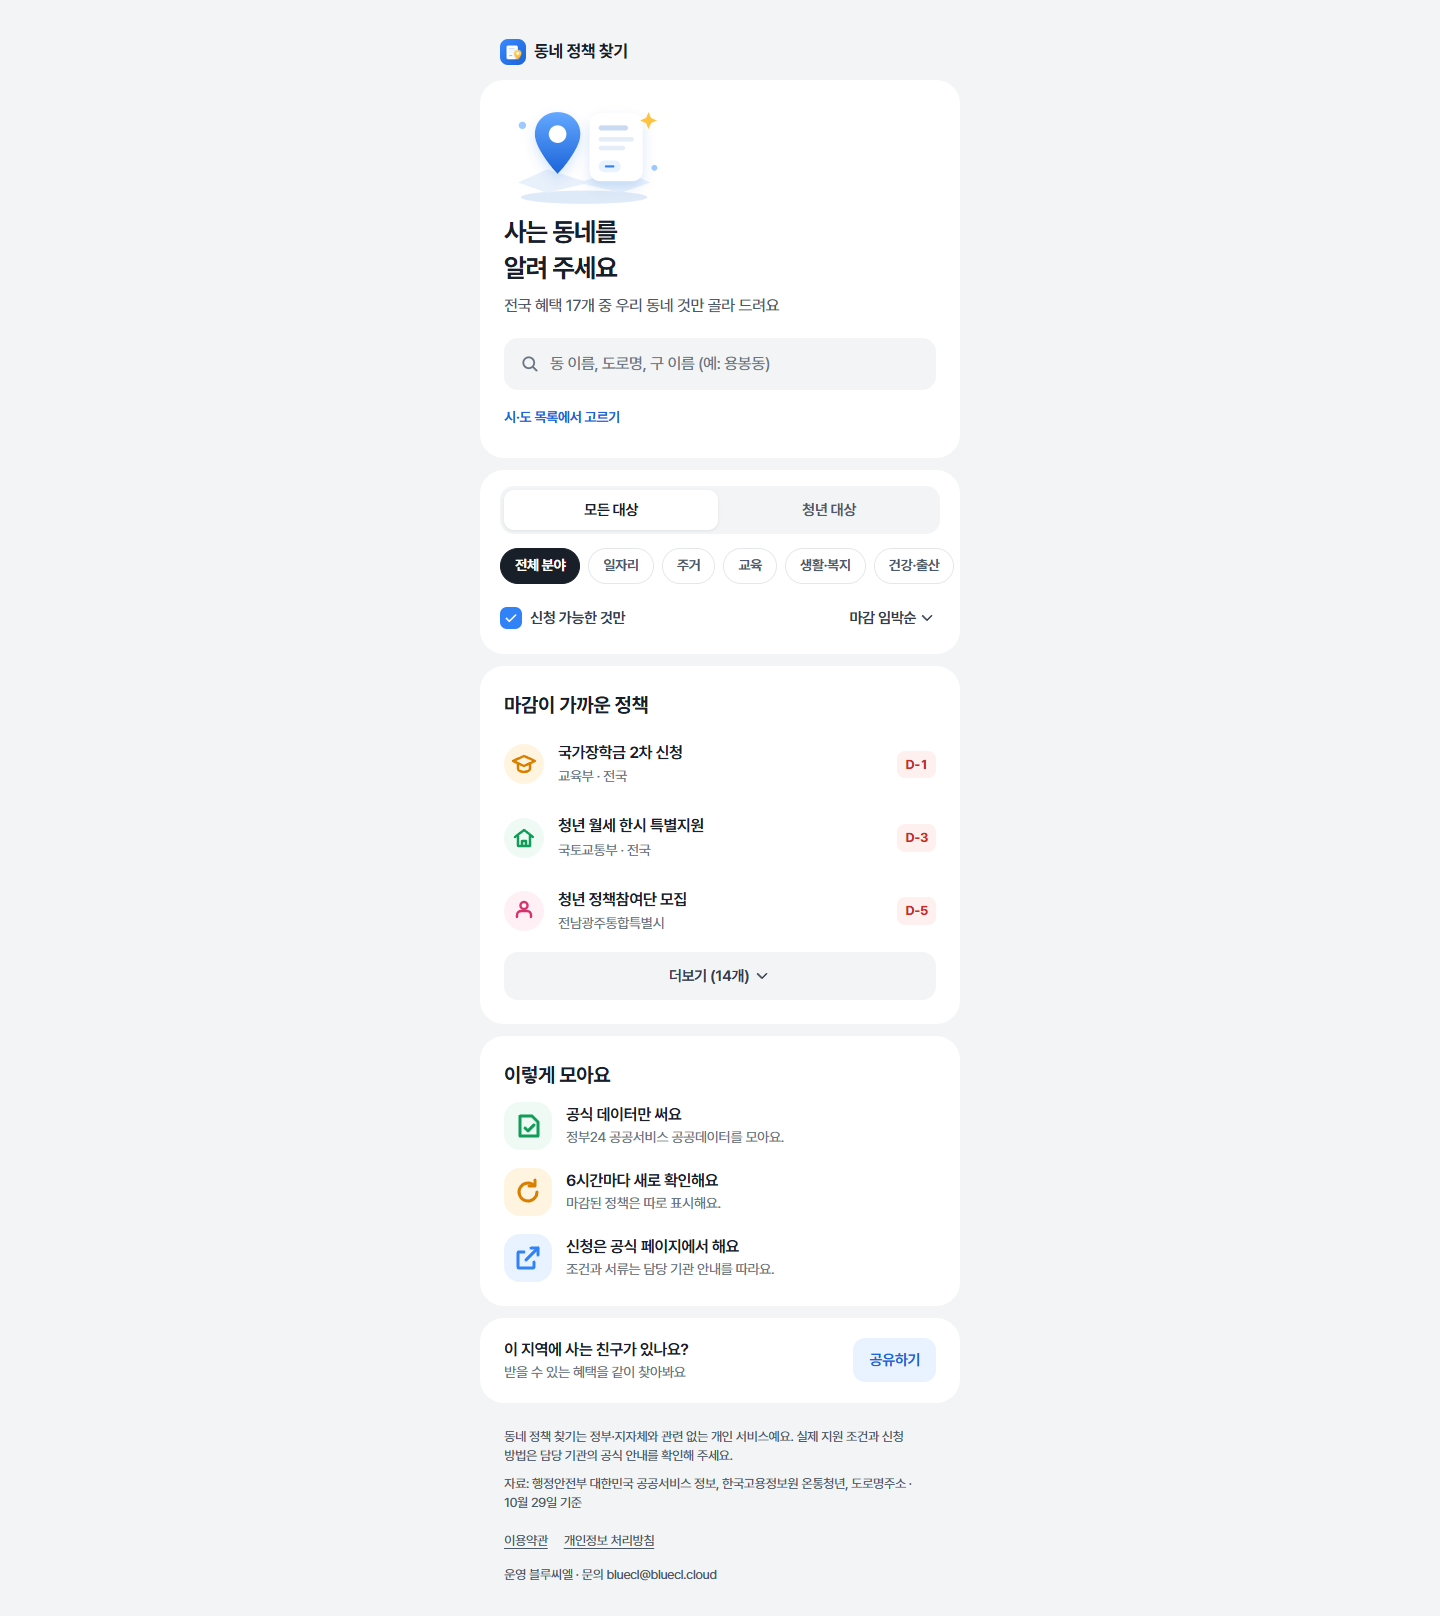
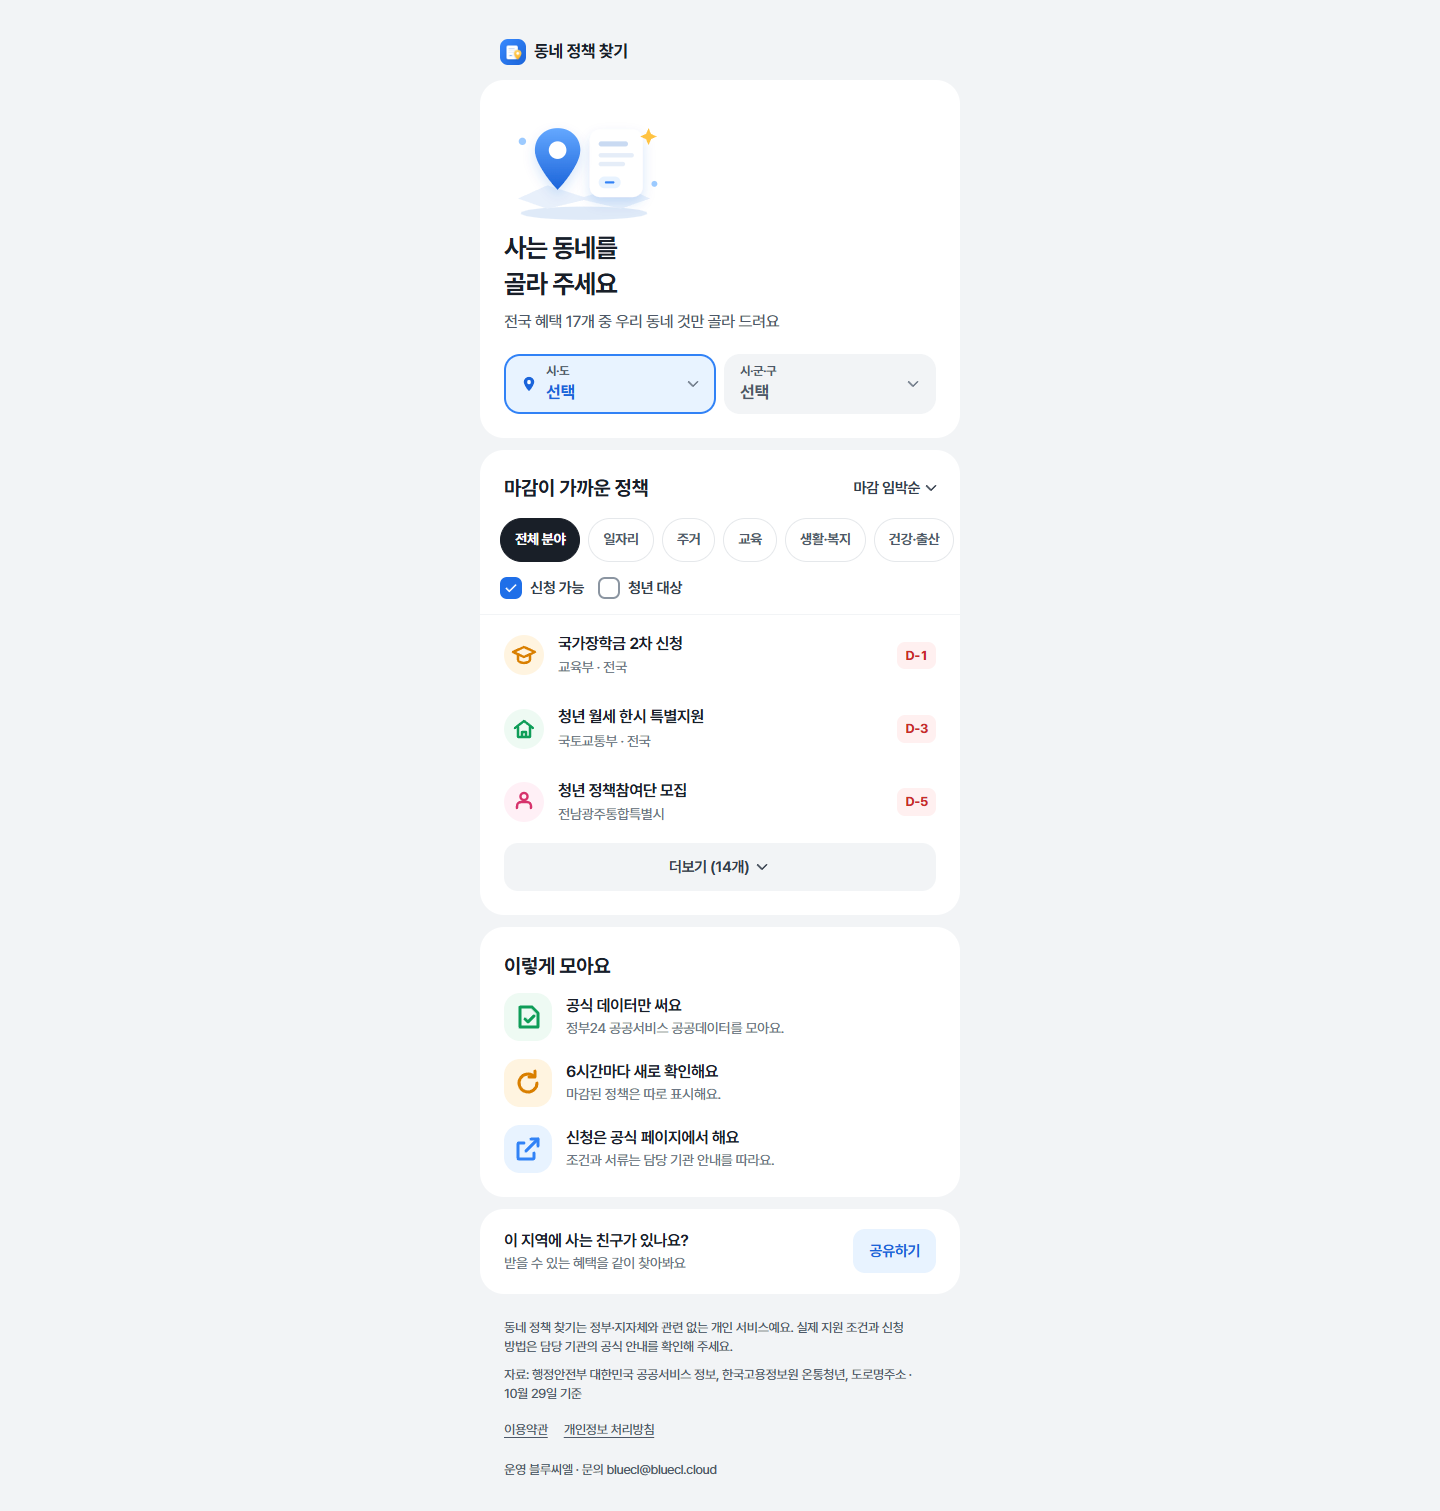
[Docs] 배치 점검 기준과 바뀐 화면 스크린샷 갱신

diff --git a/README.md b/README.md
@@ -1,10 +1,10 @@
 # policy · 동네 정책 찾기
 
-고른 지역(시·도 → 시·군·구)에서 지금 신청할 수 있는 정부·지자체 혜택을 모아 보여 주는 앱인토스 미니앱이에요. 마감 임박순·최근 등록순·조회 많은순·이름순으로 정렬하고, 대상(모든 대상/청년 대상)·분야·신청 가능 여부·우리 지역만으로 거를 수 있어요.
+고른 지역(시·도 → 시·군·구)에서 지금 신청할 수 있는 정부·지자체 혜택을 모아 보여 주는 앱인토스 미니앱이에요. 마감 임박순·최근 등록순·조회 많은순·이름순으로 정렬하고, 분야와 조건(신청 가능·청년 대상·우리 지역만)으로 거를 수 있어요.
 
 지금 데이터는 정부24 공공서비스(혜택) API예요. "청년 대상"은 제목·대상·설명에 "청년"이 있는 혜택이에요(약 500건). 온통청년 청년정책 수집기는 만들어 두었지만 공공데이터포털 운영 승인이 나기 전까지는 키가 거부돼서 건너뛰어요. 승인되면 키만 넣으면 함께 모여요.
 
-<img src="docs/screenshots/mobile-finder.png" width="220" alt="동네 찾기" /> <img src="docs/screenshots/mobile-town.png" width="220" alt="우리 동네 홈" /> <img src="docs/screenshots/mobile-detail.png" width="220" alt="정책 상세" />
+<img src="docs/screenshots/mobile-home.png" width="220" alt="동네 고르기" /> <img src="docs/screenshots/mobile-town.png" width="220" alt="우리 동네 홈" /> <img src="docs/screenshots/mobile-detail.png" width="220" alt="정책 상세" />
 
 모든 기능은 무료예요. 인앱결제·광고는 없어요.
 
@@ -16,7 +16,7 @@ systemd 타이머(6시간) → scripts/collect.ts
   └ 대한민국 공공서비스(혜택) API (DATA_GO_KR_API_KEY) → server/sources/gov24.ts
   → 지역 코드를 지금 행정구역으로 맞춤(shared/regions.ts) → SQLite
 systemd 타이머(주 1회) → scripts/build-regions.ts → 도로명주소 API로 시·도/시·군·구 확인 → data/regions.json
-미니앱 → GET /api/policies · /api/regions · /api/config · /api/address
+미니앱 → GET /api/policies · /api/regions · /api/config
 ```
 
 - **지역 목록**: 고정 목록 대신 도로명주소 API(JUSO_API_KEY)로 이름과 법정동코드를 하나씩 확인해요. 옛 이름으로 검색했는데 새 이름이 나오면 그 이름도 더해요. 2026-10-29 기준 시·도 16곳, 시·군·구 230곳이에요(일반구가 있는 시는 시 하나로 묶어요).
@@ -24,7 +24,12 @@ systemd 타이머(주 1회) → scripts/build-regions.ts → 도로명주소 API
   - 인천 중구·동구 → 제물포구·영종구, 서구 → 서해구·검단구
   - 화성시 일반구(만세·효행·병점·동탄)
 - **옛 코드 처리**: 정책 데이터에 남은 옛 코드(29·46 → 12, 42 → 51, 45 → 52, 인천 28110 등)를 지금 지역으로 바꿔요.
-- **동네 찾기(첫 화면)**: 동네를 고르기 전에는 첫 화면이 "사는 동네를 알려 주세요" 입력창이에요. 사용자가 직접 입력해서 토스 동의 화면이 필요 없어요. 시·군·구 이름("강남구", "수원", "포항 북구", 옛 이름 "광주")은 기기 안에서 바로 찾고, 동 이름·도로명("용봉동", "테헤란로")은 `/api/address`가 도로명주소 API로 찾아요(구 이름만 넣으면 주소 API가 E0006으로 거절해서 이름 검색은 기기 안에서 해요). 입력한 글자는 저장하지 않아요. 동네를 고르면 첫 화면이 동네 이름 / 신청 가능 개수 / 이번 주 새 정책으로 바뀌어요.
+- **화면 배치**: `tests/browser/audit.spec.ts`가 기준을 재요. 기준은 접힘선(375×812에서 동네 선택과 첫 정책이 보임), 글자 대비 4.5:1, 터치 높이 44px, 가로 넘침 없음, 조건 칩 한 줄이에요. 정렬·조건이 목록 카드 안에 있는지와 상세의 "공식 페이지" 버튼이 화면 안에 보이는지도 확인해요.
+  - 첫 화면(고르기 전): 그림 → "사는 동네를 골라 주세요" → 전국 혜택 수 → **시·도 / 시·군·구 선택 칸**. 입력창은 없고 선택만 해요.
+  - 고른 뒤: 신청 가능 개수 → "이번 주 새로 올라온 정책 N개 ›"(누르면 최근 등록순) → 같은 자리의 선택 칸. 장식 그림은 빼서 목록이 먼저 보여요.
+  - 목록 카드: 제목·정렬 → 분야 칩 → 조건(신청 가능·청년 대상·우리 지역만) → 정책 3개 → 더보기.
+  - 시·도를 고르면 바로 시·군·구 목록으로 넘어가요. 시·군·구 칸은 그 시·도 목록을 바로 열어요. 세종은 시·군·구 칸이 꺼져요.
+  - 고른 동네는 기기에만 저장하고 서버로 보내지 않아요.
 - **신청 상태**: 온통청년은 신청기간 코드(0057001 특정기간·0057002 상시·0057003 마감)를 먼저 보고, 없으면 날짜로 판단해요. 정부 혜택은 `신청기한` 문장에서 날짜와 "상시"를 읽어요.
 - **키 처리**: 키가 없거나 거부되면 그 출처만 건너뛰고 저장된 목록은 그대로 둬요(타이머 실패로 쌓지 않아요). 상태는 `/api/policies`의 `sources`에 `ok / no-key / invalid-key / error`로 나와요.
 - **목록 제목**: 같은 이름의 정책(여러 구의 "청년 월세 지원" 등)은 지역이나 기관 이름을 붙여 줄마다 달라요. 첫 화면 목록은 3개만 보이고 나머지는 더보기예요.
@@ -61,8 +66,9 @@ npm run regions     # 지역 목록 다시 확인(shared/regions.json)
 ## 검증
 
 ```powershell
-npm test            # 지역·정렬·출처 변환·API·수집·알림 단위 테스트 30개
-npm run test:e2e    # Edge 375·768·1440px 흐름 16개 (스크린샷 docs/screenshots 갱신)
+npm test            # 지역·정렬·출처 변환·API·수집·알림 단위 테스트 28개
+npm run test:e2e    # Edge 375·768·1440px 흐름 14개 (스크린샷 docs/screenshots 갱신)
+npx playwright test --project=audit   # 배치 자동 점검 3개(어긋난 곳을 목록으로 보여 줘요)
 npm run build       # 출시용: 설정 검사 → 콘솔 스크린샷 3장 → 타입 검사 → 번들 → policy.ait
 npx ait deploy -m "<대표 커밋 메시지>"
 ```
@@ -71,7 +77,7 @@ npx ait deploy -m "<대표 커밋 메시지>"
 
 ## 배포 (BlueCL)
 
-현재 서버 릴리스 `policy-20261029011001`(2026-10-29 설치), 앱 번들 deploymentId `01a18535-b8f3-7c4c-a7e5-fcb487c3339b`. 정부 혜택 9,933건 수집 중(온통청년은 운영 승인 대기).
+현재 서버 릴리스 `policy-20261029012806`(2026-10-29 설치), 앱 번들 deploymentId `01a18546-0fd3-785e-add3-f15cbdc0e3a4`. 정부 혜택 9,933건 수집 중(온통청년은 운영 승인 대기).
 
 `/home/solty/dev/policy/{releases,current,node,data,.env}`, API 포트 `18826`, 공개 경로 `https://bluecl.cloud/policy/api/`. Node는 gongmodu와 같은 `node` 링크(v24)를 써요.
 
